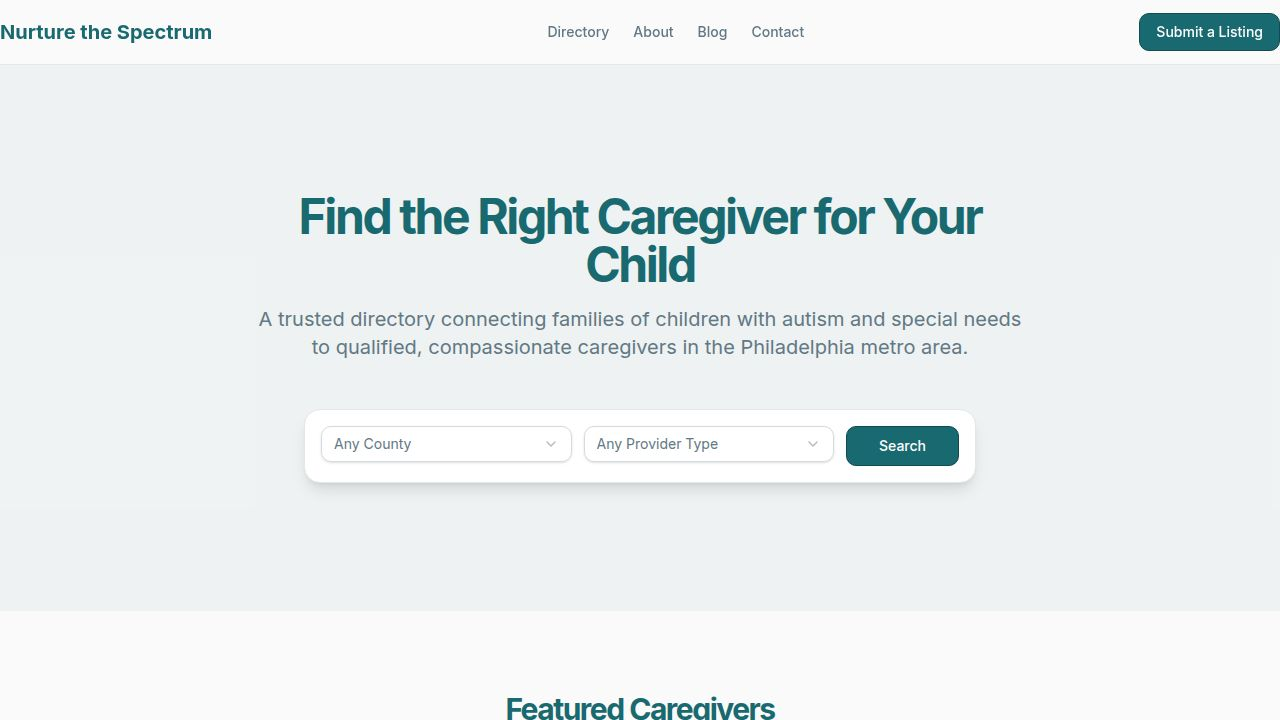
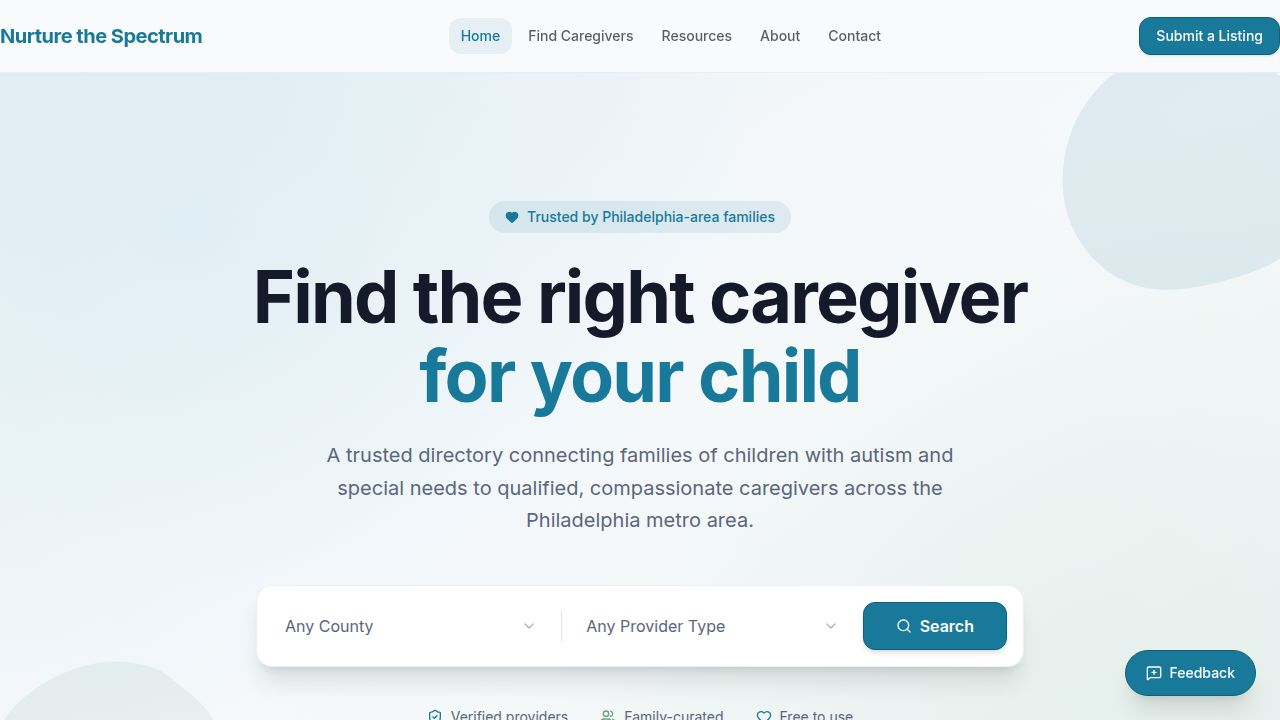
Fix mailto parameter injection on listing detail page (Task #10)
Vulnerability: stored client-side injection via unencoded `listing.name`
interpolated into mailto: URIs at listing.tsx:120 and :183. An attacker who
submitted a listing name containing `&bcc=...&body=...` could, once approved,
silently inject hidden CC/BCC recipients or body text into the mail client of
any visitor who clicked "Send Inquiry" or "Send a Message".

Fix in artifacts/nurture-the-spectrum/src/pages/listing.tsx:
- Built `inquirySubject` once from `listing.name`
- Built `inquiryMailto` once with `encodeURIComponent(inquirySubject)` so all
  reserved URI characters (&, =, CRLF, etc.) are escaped into the subject
  parameter and cannot break out into other mailto fields
- Both onClick handlers (Send Inquiry button + Send a Message button) now
  reference the same pre-encoded `inquiryMailto` constant

No other changes — submit.tsx form validation and the api-zod schema were
considered (per task description) but the canonical fix is at the navigation
sink, which is now safe regardless of what gets stored.

Pre-existing typecheck errors in contact.tsx:42 and submit.tsx:65
("Property 'error' does not exist on type 'ErrorType<ErrorResponse>'") are
unrelated to this task and left untouched.

Workflow note: api-server and web workflows had stale port-bound processes
from the previous session (EADDRINUSE on :8080 and :22041); restarted both.

diff --git a/artifacts/nurture-the-spectrum/src/pages/listing.tsx b/artifacts/nurture-the-spectrum/src/pages/listing.tsx
@@ -57,6 +57,8 @@ export default function ListingDetail() {
   const isFeatured = listing.tier === "Featured";
   const isVerified = listing.tier === "Verified" || isFeatured;
   const safeWebsite = listing.website ? safeWebUrl(listing.website) : null;
+  const inquirySubject = `Inquiry regarding ${listing.name} via Nurture the Spectrum`;
+  const inquiryMailto = `mailto:[email redacted]?subject=${encodeURIComponent(inquirySubject)}`;
 
   return (
     <div className="bg-background pb-20">
@@ -117,7 +119,7 @@ export default function ListingDetail() {
               <Button 
                 size="lg" 
                 className="w-full md:w-auto shadow-sm"
-                onClick={() => window.location.href = `mailto:[email redacted]?subject=Inquiry regarding ${listing.name} via Nurture the Spectrum`}
+                onClick={() => { window.location.href = inquiryMailto; }}
               >
                 <Mail className="w-4 h-4 mr-2" /> Send Inquiry
               </Button>
@@ -180,7 +182,7 @@ export default function ListingDetail() {
               <div className="space-y-4">
                 <Button 
                   className="w-full justify-start text-left bg-primary hover:bg-primary/90" 
-                  onClick={() => window.location.href = `mailto:[email redacted]?subject=Inquiry regarding ${listing.name} via Nurture the Spectrum`}
+                  onClick={() => { window.location.href = inquiryMailto; }}
                 >
                   <Mail className="w-4 h-4 mr-3" /> Send a Message
                 </Button>